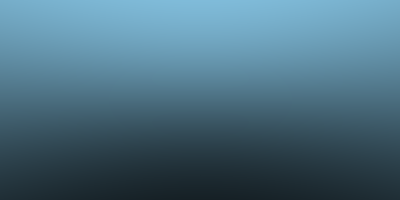
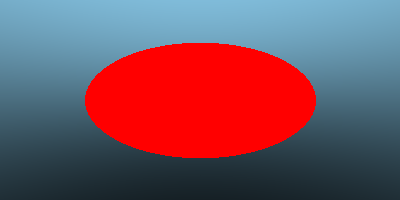
Add ray-sphere intersection code
Renders a stretched red sphere for now.

Changed region(s): [[0.21, 0.21, 0.81, 0.81]]

diff --git a/src/main.cpp b/src/main.cpp
@@ -10,10 +10,25 @@
 #define HEIGHT 200
 
 vec3 getColor(Ray& ray) {
+    // Calculate intersection with a sphere
+    vec3 sphereCenter(0, 1, 0);
+    float radius = 0.5;
+    // h = b/2
+    float a, h, c;
+    a = glm::dot(ray.direction, ray.direction);
+    h = glm::dot(ray.direction, (ray.origin - sphereCenter));
+    c = glm::dot((ray.origin - sphereCenter), (ray.origin - sphereCenter)) - radius * radius;
+    
+    float determinant = h * h - a * c;
+    if (determinant > 0) {
+        // We will get the shortest t for now
+        float t1 = (-h - sqrt(determinant)) / a;
+        return vec3(255, 0, 0);
+    }
     // Return sky color if no intersection with any objects is found
     // This is the formula for the cosine of the two angles, so we have to map
     // it to the range [0, 1].
-    float angleWithHorizon = glm::dot(ray.direction, vec3(0, 1, 0)) / glm::length(ray.direction);
+    float angleWithHorizon = glm::dot(ray.direction, vec3(0, 0, 1)) / glm::length(ray.direction);
     angleWithHorizon = (-angleWithHorizon + 1) / 2.0;
     return vec3(150, 220, 255) * angleWithHorizon;
 }
@@ -33,13 +48,13 @@ int main() {
     // Setup ray
     Ray ray;
     ray.origin = camera.getPos();
-    ray.direction.z = 1;
+    ray.direction.y = 1;
 
     // Render loop
     for (int i = 0; i < HEIGHT; i++) {
         for (int j = 0; j < WIDTH; j++) {
             // Map pixel coordinates to ray direction
-            ray.direction.y = i / (HEIGHT / 2.0) - 1.0;
+            ray.direction.z = i / (HEIGHT / 2.0) - 1.0;
             ray.direction.x = j / (WIDTH / 2.0) - 1.0;
 
             // Get color for this pixel
